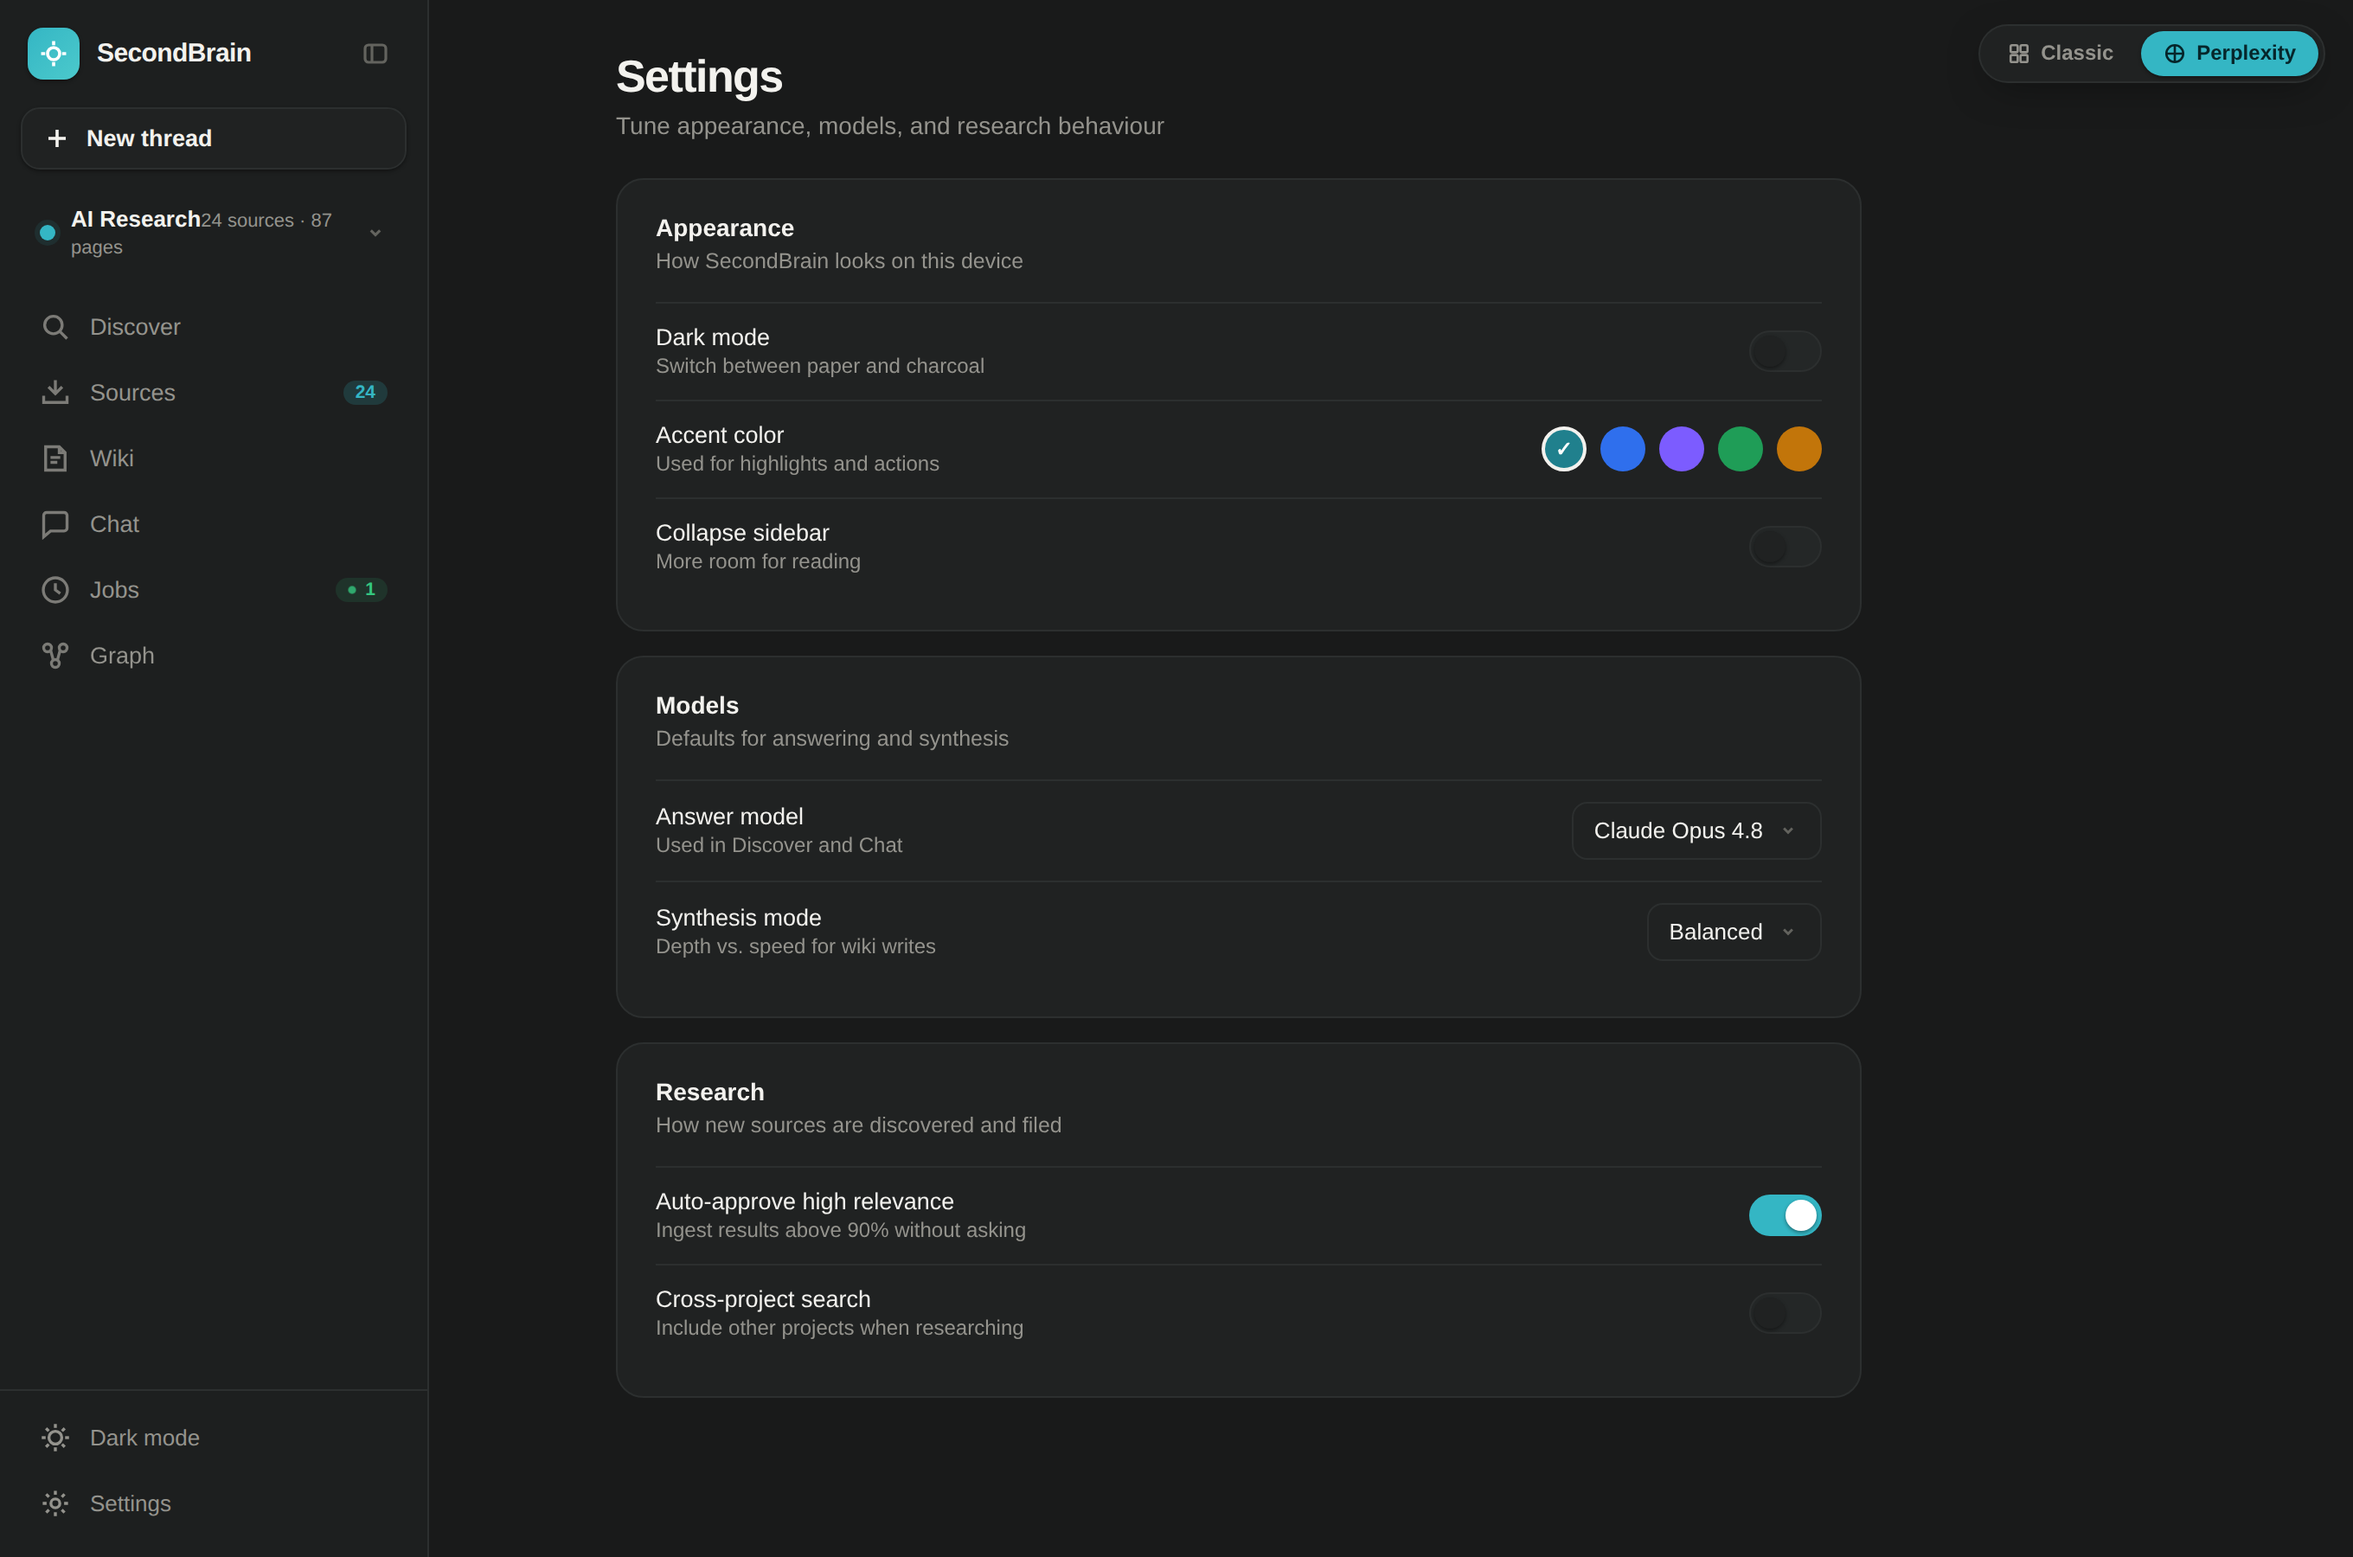
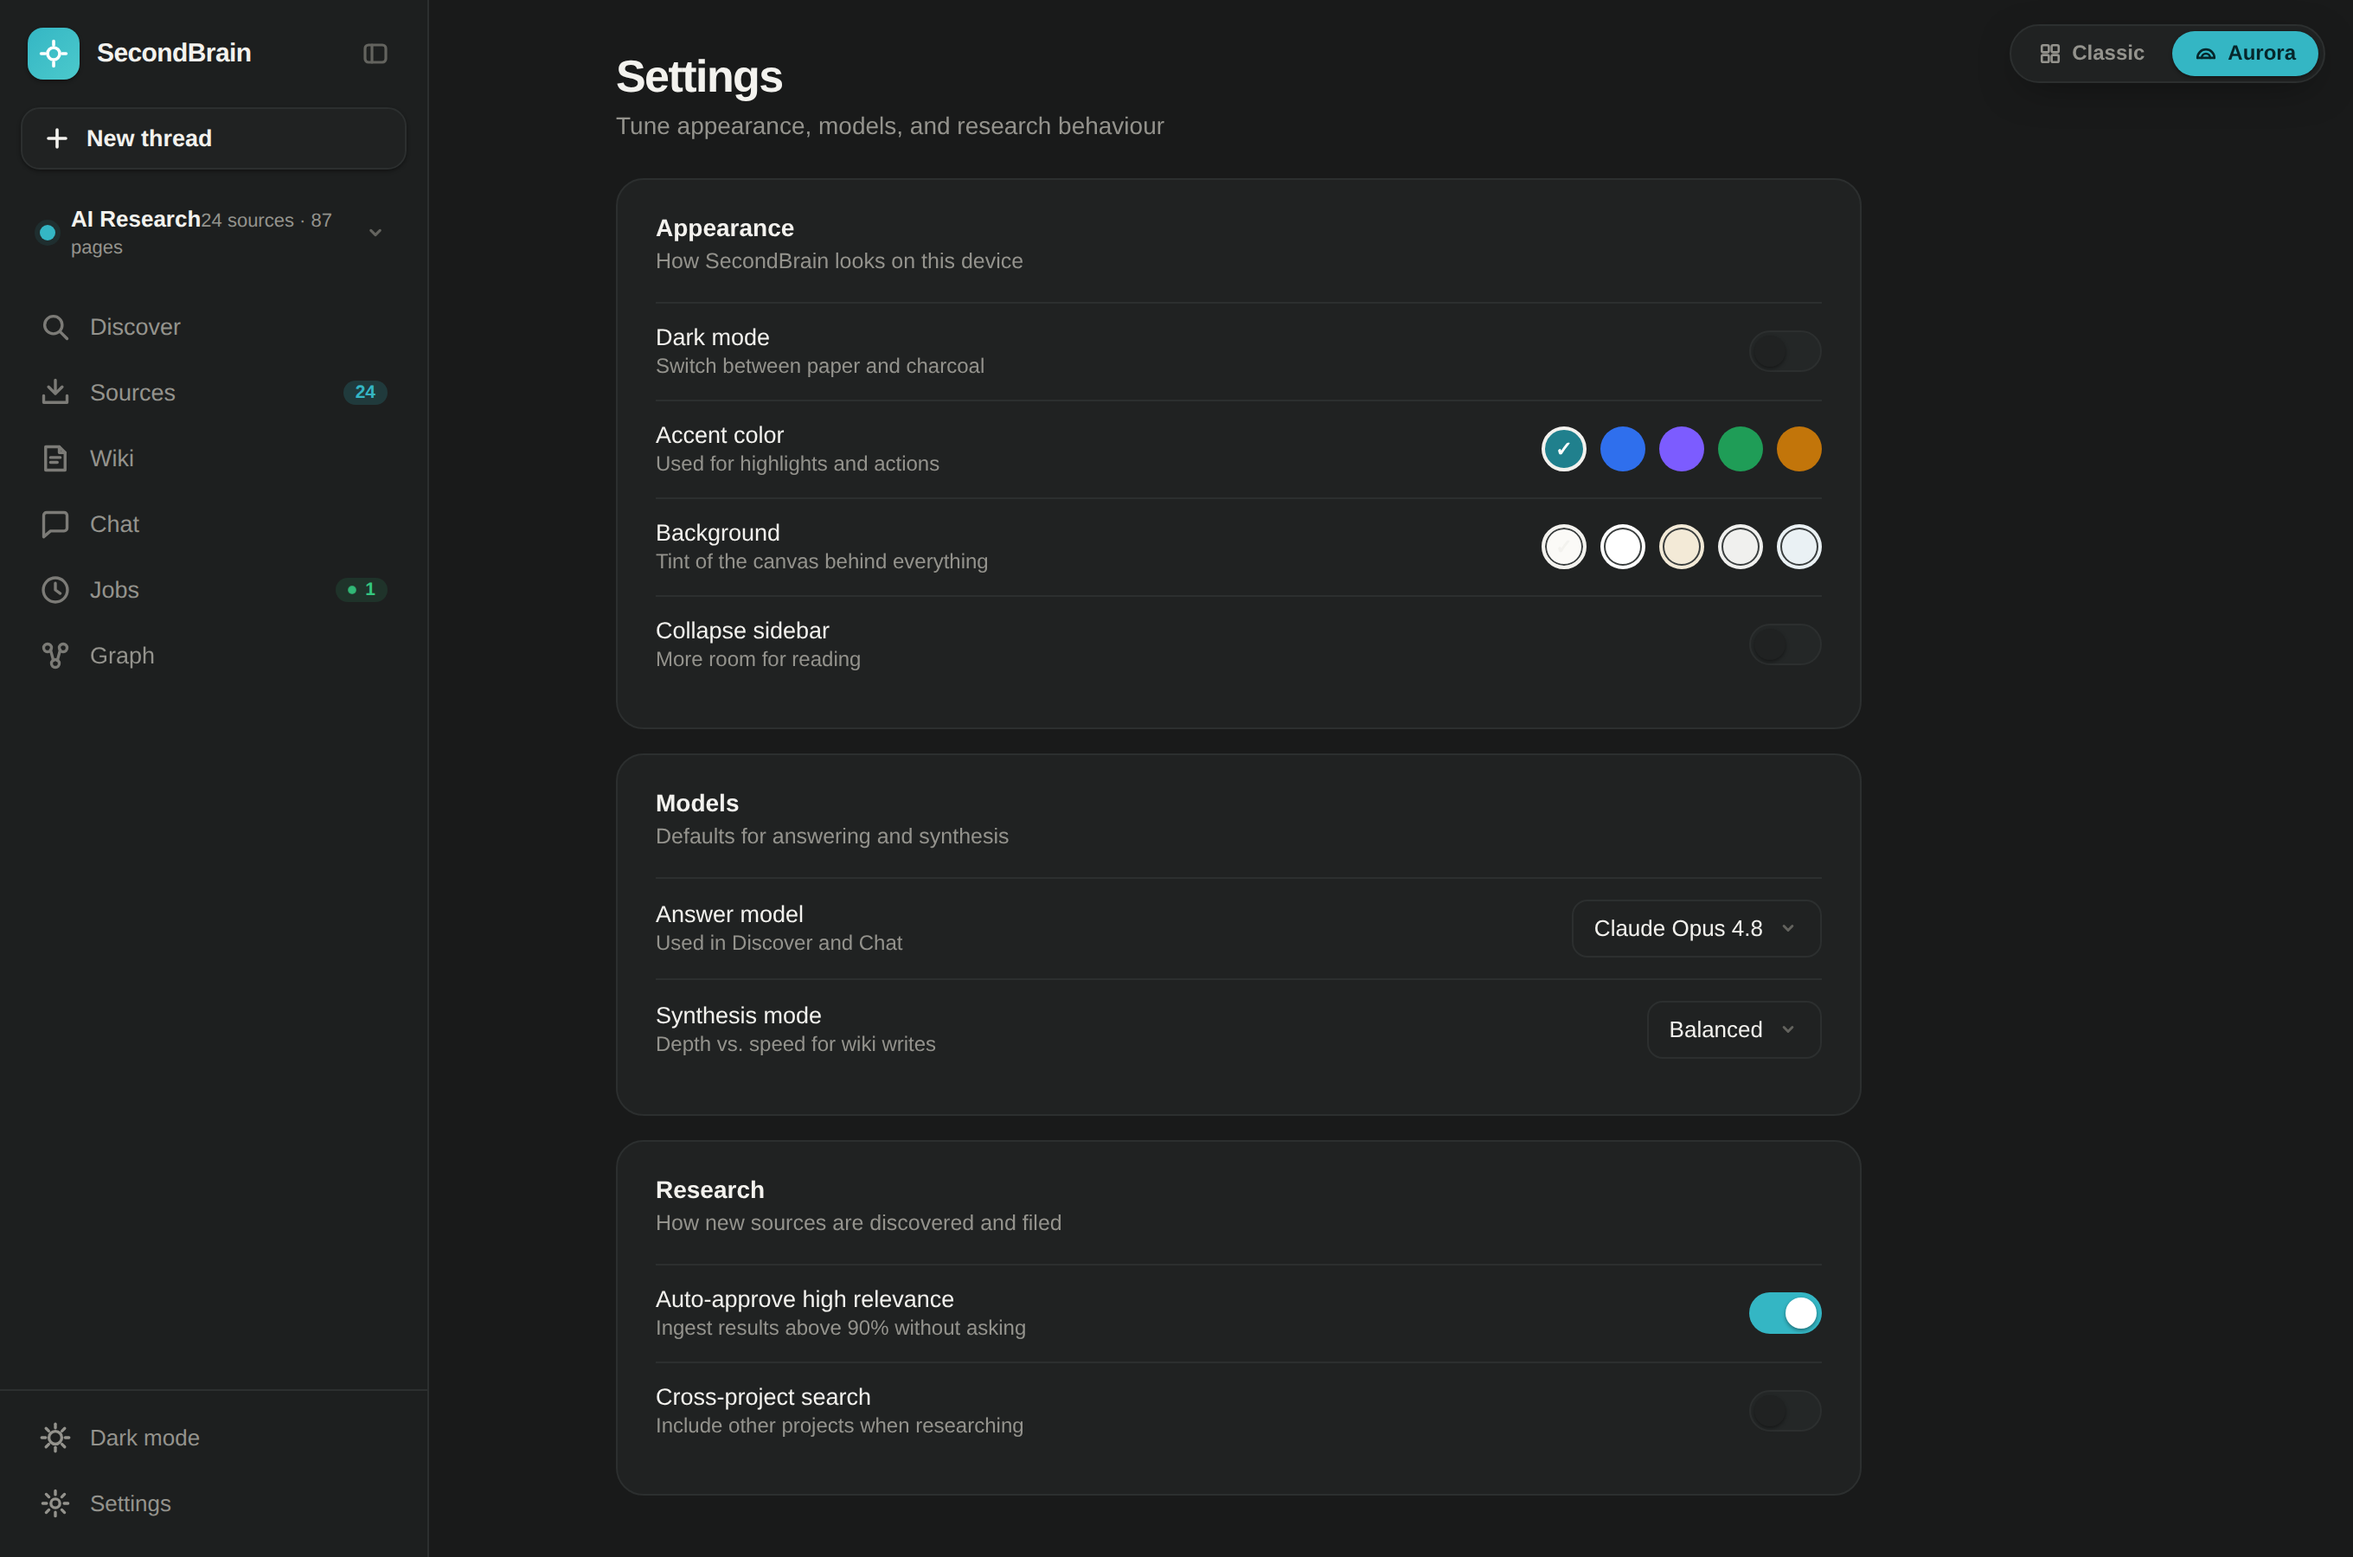
Polish Aurora frontend: background picker, lucide/shadcn pass, rename
- Background colour: 5 theme-aware canvas tints (paper/bright/sand/gray/
  cool) in Settings, persisted; works in light and dark.
- Lucide consistency: global round line caps/joins on all inline SVGs to
  match lucide-react (used by the real app); shadcn-style :focus-visible
  rings on interactive elements; reduced-motion media query for a11y.
- Animations: view-entry transition now restarts on every navigation,
  not just first show.
- Renamed the frontend toggle from 'Perplexity' to 'Aurora' across both
  mockups (label, title, switch handler, comments).

Verified headless: all-pass interaction smoke test (background in light
+ dark, round-cap icons, rename, animation replay) with zero JS errors;
screenshot set refreshed.

Claude-Session: https://claude.ai/code/session_01SDP3HT3M86EHRa3pb1VFTi

diff --git a/mockup-perplexity.html b/mockup-perplexity.html
@@ -3,13 +3,13 @@
 <head>
 <meta charset="UTF-8">
 <meta name="viewport" content="width=device-width, initial-scale=1.0">
-<title>SecondBrain — Perplexity-style Frontend</title>
+<title>SecondBrain — Aurora Frontend</title>
 <link rel="preconnect" href="https://fonts.googleapis.com">
 <link rel="preconnect" href="https://fonts.gstatic.com" crossorigin>
 <link href="https://fonts.googleapis.com/css2?family=Inter:wght@350..700&display=swap" rel="stylesheet">
 <style>
   /* ════════════════════════════════════════════════════════════
-     SecondBrain · "Aurora" — a Perplexity-desktop-style frontend
+     SecondBrain · "Aurora" — a clean, search-first frontend (Perplexity-inspired)
      Clean, paper-warm, true-turquoise accent. No italics anywhere.
      Smooth cubic-bezier motion. Fully navigable: Discover, Sources,
      Wiki, Chat, Jobs, Graph, Settings.
@@ -55,9 +55,37 @@
   html[data-accent="green"]  { --accent:#1f9d57; --accent-hover:#178047; --accent-wash:rgba(31,157,87,.10); --accent-wash-2:rgba(31,157,87,.18); --ring:rgba(31,157,87,.24); --accent-fg:#fff; }
   html[data-accent="amber"]  { --accent:#c2750a; --accent-hover:#a3620a; --accent-wash:rgba(194,117,10,.10); --accent-wash-2:rgba(194,117,10,.18); --ring:rgba(194,117,10,.24); --accent-fg:#fff; }
 
+  /* Background-colour presets (theme-aware). "paper" / charcoal = default, no data-bg. */
+  [data-theme="light"][data-bg="white"] { --bg-0:#ffffff; --bg-1:#f6f6f4; --bg-2:#eeeeec; --surface:#ffffff; --surface-2:#f8f8f6; --border:#ececea; --border-strong:#dcdcd9; }
+  [data-theme="light"][data-bg="sand"]  { --bg-0:#f6f0e3; --bg-1:#efe7d4; --bg-2:#e7ddc6; --surface:#fffdf6; --surface-2:#f9f3e7; --border:#e6dcc7; --border-strong:#d6cbb2; }
+  [data-theme="light"][data-bg="gray"]  { --bg-0:#f3f3f2; --bg-1:#ebebe9; --bg-2:#e3e3e0; --surface:#ffffff; --surface-2:#f8f8f7; --border:#e5e5e2; --border-strong:#d5d5d1; }
+  [data-theme="light"][data-bg="cool"]  { --bg-0:#f0f4f6; --bg-1:#e7edf0; --bg-2:#dee6ea; --surface:#ffffff; --surface-2:#f5f9fb; --border:#dde6ea; --border-strong:#cbd7dd; }
+  [data-theme="dark"][data-bg="white"]  { --bg-0:#0c0d0d; --bg-1:#131414; --bg-2:#1b1c1c; --surface:#161717; --surface-2:#1b1c1c; --border:#262727; --border-strong:#343535; }
+  [data-theme="dark"][data-bg="sand"]   { --bg-0:#1a1813; --bg-1:#211e17; --bg-2:#2a261d; --surface:#23201a; --surface-2:#2a261d; --border:#322d22; --border-strong:#42392b; }
+  [data-theme="dark"][data-bg="gray"]   { --bg-0:#171717; --bg-1:#1d1d1d; --bg-2:#242424; --surface:#1f1f1f; --surface-2:#242424; --border:#2b2b2b; --border-strong:#393939; }
+  [data-theme="dark"][data-bg="cool"]   { --bg-0:#14171b; --bg-1:#191d22; --bg-2:#212730; --surface:#1b2026; --surface-2:#212730; --border:#262d35; --border-strong:#343d48; }
+
   :root { --ease: cubic-bezier(0.22, 1, 0.36, 1); --ease-soft: cubic-bezier(0.4, 0, 0.2, 1); }
 
   * { margin: 0; padding: 0; box-sizing: border-box; }
+
+  /* Lucide-style icons: every inline SVG gets round caps/joins like lucide-react,
+     which the real app uses — keeps the mockup and the wired app visually consistent. */
+  svg { stroke-linecap: round; stroke-linejoin: round; }
+
+  /* shadcn-style keyboard focus rings (only on keyboard nav, not mouse clicks) */
+  button:focus-visible, a:focus-visible, input:focus-visible, textarea:focus-visible,
+  .chip:focus-visible, .pill:focus-visible, .swatch:focus-visible, .nav-item:focus-visible,
+  .toggle:focus-visible, .select:focus-visible, .seg button:focus-visible {
+    outline: 2px solid var(--accent); outline-offset: 2px; border-radius: 8px;
+  }
+
+  /* Respect reduced-motion preference (accessibility) */
+  @media (prefers-reduced-motion: reduce) {
+    *, *::before, *::after { animation-duration: 0.001ms !important; animation-iteration-count: 1 !important;
+      transition-duration: 0.001ms !important; scroll-behavior: auto !important; }
+  }
+
   body {
     font-family: 'Inter', -apple-system, BlinkMacSystemFont, sans-serif;
     background: var(--bg-0); color: var(--text-1); height: 100vh; overflow: hidden;
@@ -477,6 +505,9 @@
   .swatch:hover { transform: scale(1.12); }
   .swatch.on { border-color: var(--text-1); }
   .swatch.on::after { content: '✓'; position: absolute; inset: 0; display: flex; align-items: center; justify-content: center; color: #fff; font-size: 12px; font-weight: 700; }
+  /* Background-tone swatches are near-white, so give them a ring and a dark check */
+  .swatch.tone { box-shadow: inset 0 0 0 1px var(--border-strong); }
+  .swatch.tone.on::after { color: var(--text-1); }
 
   /* ════════ Frontend switcher (shared) ════════ */
   .fe-switch { position: fixed; top: 14px; right: 16px; z-index: 200; display: flex; align-items: center; gap: 3px; padding: 3px;
@@ -506,9 +537,9 @@
     <svg viewBox="0 0 16 16" fill="none" stroke="currentColor" stroke-width="1.6"><rect x="2" y="2" width="5" height="5" rx="1"/><rect x="9" y="2" width="5" height="5" rx="1"/><rect x="2" y="9" width="5" height="5" rx="1"/><rect x="9" y="9" width="5" height="5" rx="1"/></svg>
     Classic
   </button>
-  <button class="fe-seg active" title="Perplexity-style frontend (current)">
-    <svg viewBox="0 0 16 16" fill="none" stroke="currentColor" stroke-width="1.6"><circle cx="8" cy="8" r="6"/><path d="M8 2v12M2 8h12"/></svg>
-    Perplexity
+  <button class="fe-seg active" title="Aurora frontend (current)">
+    <svg viewBox="0 0 16 16" fill="none" stroke="currentColor" stroke-width="1.6"><path d="M2 11a6 6 0 0112 0"/><path d="M5 11a3 3 0 016 0"/><line x1="2" y1="11" x2="14" y2="11"/></svg>
+    Aurora
   </button>
 </div>
 
@@ -765,6 +796,14 @@
                   <span class="swatch" style="background:#1f9d57" data-accent="green" onclick="setAccent('green', this)"></span>
                   <span class="swatch" style="background:#c2750a" data-accent="amber" onclick="setAccent('amber', this)"></span>
                 </div></div></div>
+              <div class="srow"><div><div class="slabel">Background</div><div class="sdesc">Tint of the canvas behind everything</div></div>
+                <div class="sctl"><div class="swatches" id="bgSwatches">
+                  <span class="swatch tone on" style="background:#fbfaf7" data-bg="paper" onclick="setBg('paper', this)" title="Paper (default)"></span>
+                  <span class="swatch tone" style="background:#ffffff" data-bg="white" onclick="setBg('white', this)" title="Bright"></span>
+                  <span class="swatch tone" style="background:#f3ead7" data-bg="sand" onclick="setBg('sand', this)" title="Sand"></span>
+                  <span class="swatch tone" style="background:#f0f0ee" data-bg="gray" onclick="setBg('gray', this)" title="Gray"></span>
+                  <span class="swatch tone" style="background:#eaf1f4" data-bg="cool" onclick="setBg('cool', this)" title="Cool"></span>
+                </div></div></div>
               <div class="srow"><div><div class="slabel">Collapse sidebar</div><div class="sdesc">More room for reading</div></div>
                 <div class="sctl"><div class="toggle" id="setSideToggle" onclick="toggleSidebar()"></div></div></div>
             </div>
@@ -879,6 +918,7 @@
   (function init(){
     const t = localStorage.getItem('sb:theme'); if (t) document.documentElement.dataset.theme = t;
     const a = localStorage.getItem('sb:accent'); if (a && a !== 'teal') document.documentElement.dataset.accent = a;
+    const bg = localStorage.getItem('sb:bg'); if (bg && bg !== 'paper') document.documentElement.dataset.bg = bg;
     syncThemeIcon();
   })();
 
@@ -900,6 +940,12 @@
     localStorage.setItem('sb:accent', name);
     document.querySelectorAll('#accentSwatches .swatch').forEach(s => s.classList.toggle('on', s.dataset.accent === name));
   }
+  function setBg(name, el){
+    if (name === 'paper') delete document.documentElement.dataset.bg;
+    else document.documentElement.dataset.bg = name;
+    localStorage.setItem('sb:bg', name);
+    document.querySelectorAll('#bgSwatches .swatch').forEach(s => s.classList.toggle('on', s.dataset.bg === name));
+  }
   function toggleSidebar(){
     const c = document.body.dataset.collapsed === 'true';
     document.body.dataset.collapsed = c ? 'false' : 'true';
@@ -913,7 +959,11 @@
   const built = {};
   function showView(name){
     document.querySelectorAll('.view').forEach(v => v.classList.remove('active'));
-    document.getElementById('view-' + name).classList.add('active');
+    const view = document.getElementById('view-' + name);
+    view.classList.add('active');
+    // Restart the entry animation so the transition plays on *every* navigation,
+    // not just the first time the view is shown.
+    view.style.animation = 'none'; void view.offsetWidth; view.style.animation = '';
     document.querySelectorAll('.nav-item').forEach(n => n.classList.toggle('active', n.dataset.view === name));
     document.getElementById('scroll').scrollTop = 0;
     if (name === 'sources' && !built.sources){ renderLibrary(); renderSrcResearch(); built.sources = true; }

diff --git a/mockup.html b/mockup.html
@@ -834,7 +834,7 @@
 
   .hidden { display: none; }
 
-  /* ─── Frontend switcher (shared with Perplexity-style mockup) ─── */
+  /* ─── Frontend switcher (shared with the Aurora mockup) ─── */
   .fe-switch {
     position: fixed; top: 14px; right: 16px; z-index: 200;
     display: flex; align-items: center; gap: 3px; padding: 3px;
@@ -859,9 +859,9 @@
     <svg viewBox="0 0 16 16" fill="none" stroke="currentColor" stroke-width="1.6"><rect x="2" y="2" width="5" height="5" rx="1"/><rect x="9" y="2" width="5" height="5" rx="1"/><rect x="2" y="9" width="5" height="5" rx="1"/><rect x="9" y="9" width="5" height="5" rx="1"/></svg>
     Classic
   </button>
-  <button class="fe-seg" onclick="switchFrontend('perplexity')" title="Switch to the Perplexity-style frontend">
-    <svg viewBox="0 0 16 16" fill="none" stroke="currentColor" stroke-width="1.6"><circle cx="8" cy="8" r="6"/><path d="M8 2v12M2 8h12"/></svg>
-    Perplexity
+  <button class="fe-seg" onclick="switchFrontend('aurora')" title="Switch to the Aurora frontend">
+    <svg viewBox="0 0 16 16" fill="none" stroke="currentColor" stroke-width="1.6" stroke-linecap="round" stroke-linejoin="round"><path d="M2 11a6 6 0 0112 0"/><path d="M5 11a3 3 0 016 0"/><line x1="2" y1="11" x2="14" y2="11"/></svg>
+    Aurora
   </button>
 </div>
 
@@ -1178,7 +1178,7 @@ document.addEventListener('click', function(e) {
 
 function switchFrontend(which) {
   localStorage.setItem('sb:frontend', which);
-  if (which === 'perplexity') window.location.href = 'mockup-perplexity.html';
+  if (which === 'aurora') window.location.href = 'mockup-perplexity.html';
 }
 </script>
 
